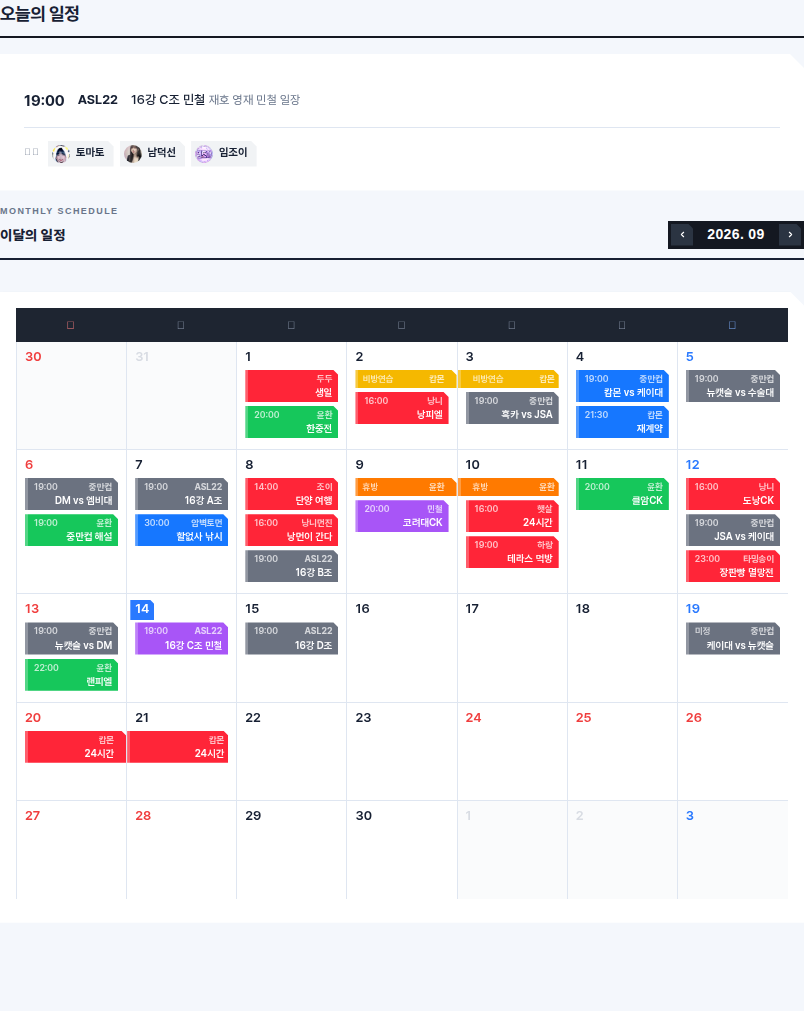
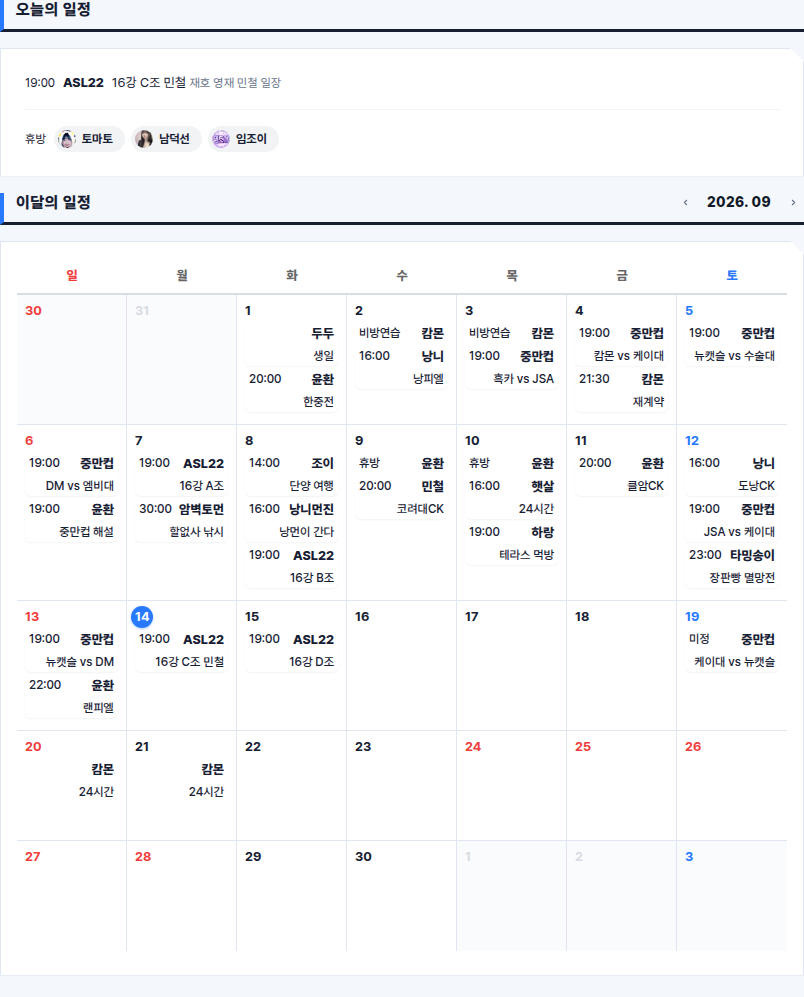
Add files via upload

diff --git a/docs/redesign.css b/docs/redesign.css
@@ -1827,3 +1827,97 @@ tbody tr:first-child .synergy-bar i { background: #141821; }
 }
 
 /* 김윤환 휴방 띠도 새 일정 색상 체계의 쨍한 주황을 사용한다. */
+
+/* ============================================================
+   사용자 재보정 — 최근공지 / 섹션 타이틀 / 노치 버튼 / 휴방 색상
+   ============================================================ */
+/* 홈 최근 공지는 첫 카드의 우상단만 확실하게 노치. 연결된 카드는 직선으로 유지. */
+.home-notice-list > .home-notice-card {
+    margin:0 !important;
+    border-radius:0 !important;
+    background:var(--color-card) !important;
+    clip-path:none !important;
+    filter:none !important;
+}
+.home-notice-list > .home-notice-card:first-child {
+    clip-path:polygon(0 0,calc(100% - 14px) 0,100% 14px,100% 100%,0 100%) !important;
+    filter:
+      drop-shadow(0 -1px 0 var(--color-border))
+      drop-shadow(1px 0 0 var(--color-border))
+      drop-shadow(0 1px 0 var(--color-border))
+      drop-shadow(-1px 0 0 var(--color-border)) !important;
+}
+.home-notice-list > .home-notice-card + .home-notice-card {
+    border-top:1px solid var(--color-border) !important;
+}
+
+/* 멤버 현황/공지의 노치 버튼: 실제 border는 유지하고 잘린 외곽은 drop-shadow로 보강. */
+.sub-tabs .sub-tab,
+.news-load-more,
+#former-members-toggle-btn,
+.news-post-more-btn {
+    border:1px solid var(--color-border) !important;
+    border-radius:0 !important;
+    clip-path:polygon(0 0,calc(100% - 8px) 0,100% 8px,100% 100%,0 100%) !important;
+    filter:
+      drop-shadow(0 -1px 0 var(--color-border))
+      drop-shadow(1px 0 0 var(--color-border))
+      drop-shadow(0 1px 0 var(--color-border))
+      drop-shadow(-1px 0 0 var(--color-border)) !important;
+}
+.sub-tabs .sub-tab.active {
+    border-color:var(--color-primary) !important;
+    filter:
+      drop-shadow(0 -1px 0 var(--color-primary))
+      drop-shadow(1px 0 0 var(--color-primary))
+      drop-shadow(0 1px 0 var(--color-primary))
+      drop-shadow(-1px 0 0 var(--color-primary)) !important;
+}
+
+/* 일정/티어 제목은 일반 section-title과 완전히 같은 글자 크기·높이·밑줄 규격. */
+.section-title.cal-month-section-title,
+.tier-row > .section-title[data-en] {
+    display:flex !important;
+    flex-wrap:wrap !important;
+    align-items:center !important;
+    justify-content:space-between !important;
+    min-height:32px !important;
+    height:auto !important;
+    padding:0 0 9px !important;
+    margin-bottom:var(--space-title-gap,16px) !important;
+    border-left:0 !important;
+    border-bottom:3px solid var(--color-text-main) !important;
+    gap:0 !important;
+    font-family:'Chakra Petch','Pretendard',sans-serif !important;
+    font-size:14px !important;
+    font-weight:800 !important;
+    letter-spacing:.025em !important;
+    line-height:1 !important;
+}
+.section-title.cal-month-section-title::before,
+.tier-row > .section-title[data-en]::before {
+    flex:0 0 100% !important;
+    order:-1 !important;
+    display:block !important;
+    margin:0 0 5px !important;
+    font-family:'Chakra Petch','Pretendard',sans-serif !important;
+    font-size:9px !important;
+    font-weight:600 !important;
+    line-height:1 !important;
+    letter-spacing:.16em !important;
+    color:var(--color-text-sub) !important;
+}
+.section-title.cal-month-section-title .section-title-label,
+.tier-row > .section-title[data-en] .section-title-label {
+    display:inline-flex !important;
+    align-items:center !important;
+    flex:0 0 auto !important;
+    font-family:inherit !important;
+    font-size:14px !important;
+    font-weight:800 !important;
+    line-height:1 !important;
+}
+.section-title.cal-month-section-title .cal-nav-group {
+    position:static !important;
+    margin-left:auto !important;
+}

diff --git a/templates/assets/redesign.css b/templates/assets/redesign.css
@@ -1827,3 +1827,97 @@ tbody tr:first-child .synergy-bar i { background: #141821; }
 }
 
 /* 김윤환 휴방 띠도 새 일정 색상 체계의 쨍한 주황을 사용한다. */
+
+/* ============================================================
+   사용자 재보정 — 최근공지 / 섹션 타이틀 / 노치 버튼 / 휴방 색상
+   ============================================================ */
+/* 홈 최근 공지는 첫 카드의 우상단만 확실하게 노치. 연결된 카드는 직선으로 유지. */
+.home-notice-list > .home-notice-card {
+    margin:0 !important;
+    border-radius:0 !important;
+    background:var(--color-card) !important;
+    clip-path:none !important;
+    filter:none !important;
+}
+.home-notice-list > .home-notice-card:first-child {
+    clip-path:polygon(0 0,calc(100% - 14px) 0,100% 14px,100% 100%,0 100%) !important;
+    filter:
+      drop-shadow(0 -1px 0 var(--color-border))
+      drop-shadow(1px 0 0 var(--color-border))
+      drop-shadow(0 1px 0 var(--color-border))
+      drop-shadow(-1px 0 0 var(--color-border)) !important;
+}
+.home-notice-list > .home-notice-card + .home-notice-card {
+    border-top:1px solid var(--color-border) !important;
+}
+
+/* 멤버 현황/공지의 노치 버튼: 실제 border는 유지하고 잘린 외곽은 drop-shadow로 보강. */
+.sub-tabs .sub-tab,
+.news-load-more,
+#former-members-toggle-btn,
+.news-post-more-btn {
+    border:1px solid var(--color-border) !important;
+    border-radius:0 !important;
+    clip-path:polygon(0 0,calc(100% - 8px) 0,100% 8px,100% 100%,0 100%) !important;
+    filter:
+      drop-shadow(0 -1px 0 var(--color-border))
+      drop-shadow(1px 0 0 var(--color-border))
+      drop-shadow(0 1px 0 var(--color-border))
+      drop-shadow(-1px 0 0 var(--color-border)) !important;
+}
+.sub-tabs .sub-tab.active {
+    border-color:var(--color-primary) !important;
+    filter:
+      drop-shadow(0 -1px 0 var(--color-primary))
+      drop-shadow(1px 0 0 var(--color-primary))
+      drop-shadow(0 1px 0 var(--color-primary))
+      drop-shadow(-1px 0 0 var(--color-primary)) !important;
+}
+
+/* 일정/티어 제목은 일반 section-title과 완전히 같은 글자 크기·높이·밑줄 규격. */
+.section-title.cal-month-section-title,
+.tier-row > .section-title[data-en] {
+    display:flex !important;
+    flex-wrap:wrap !important;
+    align-items:center !important;
+    justify-content:space-between !important;
+    min-height:32px !important;
+    height:auto !important;
+    padding:0 0 9px !important;
+    margin-bottom:var(--space-title-gap,16px) !important;
+    border-left:0 !important;
+    border-bottom:3px solid var(--color-text-main) !important;
+    gap:0 !important;
+    font-family:'Chakra Petch','Pretendard',sans-serif !important;
+    font-size:14px !important;
+    font-weight:800 !important;
+    letter-spacing:.025em !important;
+    line-height:1 !important;
+}
+.section-title.cal-month-section-title::before,
+.tier-row > .section-title[data-en]::before {
+    flex:0 0 100% !important;
+    order:-1 !important;
+    display:block !important;
+    margin:0 0 5px !important;
+    font-family:'Chakra Petch','Pretendard',sans-serif !important;
+    font-size:9px !important;
+    font-weight:600 !important;
+    line-height:1 !important;
+    letter-spacing:.16em !important;
+    color:var(--color-text-sub) !important;
+}
+.section-title.cal-month-section-title .section-title-label,
+.tier-row > .section-title[data-en] .section-title-label {
+    display:inline-flex !important;
+    align-items:center !important;
+    flex:0 0 auto !important;
+    font-family:inherit !important;
+    font-size:14px !important;
+    font-weight:800 !important;
+    line-height:1 !important;
+}
+.section-title.cal-month-section-title .cal-nav-group {
+    position:static !important;
+    margin-left:auto !important;
+}

diff --git a/docs/schedule/index.html b/docs/schedule/index.html
@@ -19,7 +19,7 @@
     <link rel="stylesheet" as="style" crossorigin href="https://cdn.jsdelivr.net/gh/orioncactus/pretendard@v1.3.9/dist/web/static/pretendard.css" />
     <link rel="stylesheet" href="https://fonts.googleapis.com/css2?family=Chakra+Petch:wght@500;600;700&display=swap">
     <link rel="stylesheet" href="style.css?v=c389b6212b">
-    <link rel="stylesheet" href="redesign.css?v=7f65b6631e">
+    <link rel="stylesheet" href="redesign.css?v=726290d2ad">
     <meta name="site-data-version" content="8ed9592a5a">
 </head>
 <body><header class="top-navbar">
@@ -114,7 +114,7 @@
 
 
 <script src="core.js?v=1c731ef4ad"></script>
-<script src="calendar.js?v=3726343a61"></script>
+<script src="calendar.js?v=cfa4bb23e6"></script>
 <script src="page-schedule.js?v=073d6c594a"></script>
 
 </body>

diff --git a/docs/index.html b/docs/index.html
@@ -30,7 +30,7 @@
     <link rel="stylesheet" as="style" crossorigin href="https://cdn.jsdelivr.net/gh/orioncactus/pretendard@v1.3.9/dist/web/static/pretendard.css" />
     <link rel="stylesheet" href="https://fonts.googleapis.com/css2?family=Chakra+Petch:wght@500;600;700&display=swap">
     <link rel="stylesheet" href="style.css?v=c389b6212b">
-    <link rel="stylesheet" href="redesign.css?v=7f65b6631e">
+    <link rel="stylesheet" href="redesign.css?v=726290d2ad">
     <meta name="site-data-version" content="8ed9592a5a">
 </head>
 <body><header class="top-navbar">

diff --git a/docs/members/index.html b/docs/members/index.html
@@ -19,7 +19,7 @@
     <link rel="stylesheet" as="style" crossorigin href="https://cdn.jsdelivr.net/gh/orioncactus/pretendard@v1.3.9/dist/web/static/pretendard.css" />
     <link rel="stylesheet" href="https://fonts.googleapis.com/css2?family=Chakra+Petch:wght@500;600;700&display=swap">
     <link rel="stylesheet" href="style.css?v=c389b6212b">
-    <link rel="stylesheet" href="redesign.css?v=7f65b6631e">
+    <link rel="stylesheet" href="redesign.css?v=726290d2ad">
     <meta name="site-data-version" content="8ed9592a5a">
 </head>
 <body><header class="top-navbar">

diff --git a/docs/records/index.html b/docs/records/index.html
@@ -19,7 +19,7 @@
     <link rel="stylesheet" as="style" crossorigin href="https://cdn.jsdelivr.net/gh/orioncactus/pretendard@v1.3.9/dist/web/static/pretendard.css" />
     <link rel="stylesheet" href="https://fonts.googleapis.com/css2?family=Chakra+Petch:wght@500;600;700&display=swap">
     <link rel="stylesheet" href="style.css?v=c389b6212b">
-    <link rel="stylesheet" href="redesign.css?v=7f65b6631e">
+    <link rel="stylesheet" href="redesign.css?v=726290d2ad">
     <meta name="site-data-version" content="8ed9592a5a">
 </head>
 <body><header class="top-navbar">

diff --git a/docs/stats/index.html b/docs/stats/index.html
@@ -19,7 +19,7 @@
     <link rel="stylesheet" as="style" crossorigin href="https://cdn.jsdelivr.net/gh/orioncactus/pretendard@v1.3.9/dist/web/static/pretendard.css" />
     <link rel="stylesheet" href="https://fonts.googleapis.com/css2?family=Chakra+Petch:wght@500;600;700&display=swap">
     <link rel="stylesheet" href="style.css?v=c389b6212b">
-    <link rel="stylesheet" href="redesign.css?v=7f65b6631e">
+    <link rel="stylesheet" href="redesign.css?v=726290d2ad">
     <meta name="site-data-version" content="8ed9592a5a">
 </head>
 <body><header class="top-navbar">

diff --git a/docs/tier/index.html b/docs/tier/index.html
@@ -19,7 +19,7 @@
     <link rel="stylesheet" as="style" crossorigin href="https://cdn.jsdelivr.net/gh/orioncactus/pretendard@v1.3.9/dist/web/static/pretendard.css" />
     <link rel="stylesheet" href="https://fonts.googleapis.com/css2?family=Chakra+Petch:wght@500;600;700&display=swap">
     <link rel="stylesheet" href="style.css?v=c389b6212b">
-    <link rel="stylesheet" href="redesign.css?v=7f65b6631e">
+    <link rel="stylesheet" href="redesign.css?v=726290d2ad">
     <meta name="site-data-version" content="8ed9592a5a">
 </head>
 <body><header class="top-navbar">

diff --git a/docs/tools/index.html b/docs/tools/index.html
@@ -19,7 +19,7 @@
     <link rel="stylesheet" as="style" crossorigin href="https://cdn.jsdelivr.net/gh/orioncactus/pretendard@v1.3.9/dist/web/static/pretendard.css" />
     <link rel="stylesheet" href="https://fonts.googleapis.com/css2?family=Chakra+Petch:wght@500;600;700&display=swap">
     <link rel="stylesheet" href="style.css?v=c389b6212b">
-    <link rel="stylesheet" href="redesign.css?v=7f65b6631e">
+    <link rel="stylesheet" href="redesign.css?v=726290d2ad">
     <meta name="site-data-version" content="8ed9592a5a">
 </head>
 <body><header class="top-navbar">

diff --git a/docs/calendar.js b/docs/calendar.js
@@ -39,7 +39,7 @@
     // 붙여준다 - 달력 칸 자체에만 표시되고, 연속으로 휴방이면 장기 일정 막대처럼 이어붙인다.
     const CAL_YOUNHWAN_NAME = '김윤환';
     const CAL_YOUNHWAN_SHORT = '윤환';
-    const CAL_YOUNHWAN_COLOR = '#ff7a00';
+    const CAL_YOUNHWAN_COLOR = '#f5b800';
     const CAL_DEFAULT_EVENT_COLOR = '#eff6ff';
     const CAL_DEFAULT_LONGTERM_COLOR = '#ffedd5';
 

diff --git a/templates/assets/calendar.js b/templates/assets/calendar.js
@@ -39,7 +39,7 @@
     // 붙여준다 - 달력 칸 자체에만 표시되고, 연속으로 휴방이면 장기 일정 막대처럼 이어붙인다.
     const CAL_YOUNHWAN_NAME = '김윤환';
     const CAL_YOUNHWAN_SHORT = '윤환';
-    const CAL_YOUNHWAN_COLOR = '#ff7a00';
+    const CAL_YOUNHWAN_COLOR = '#f5b800';
     const CAL_DEFAULT_EVENT_COLOR = '#eff6ff';
     const CAL_DEFAULT_LONGTERM_COLOR = '#ffedd5';
 
